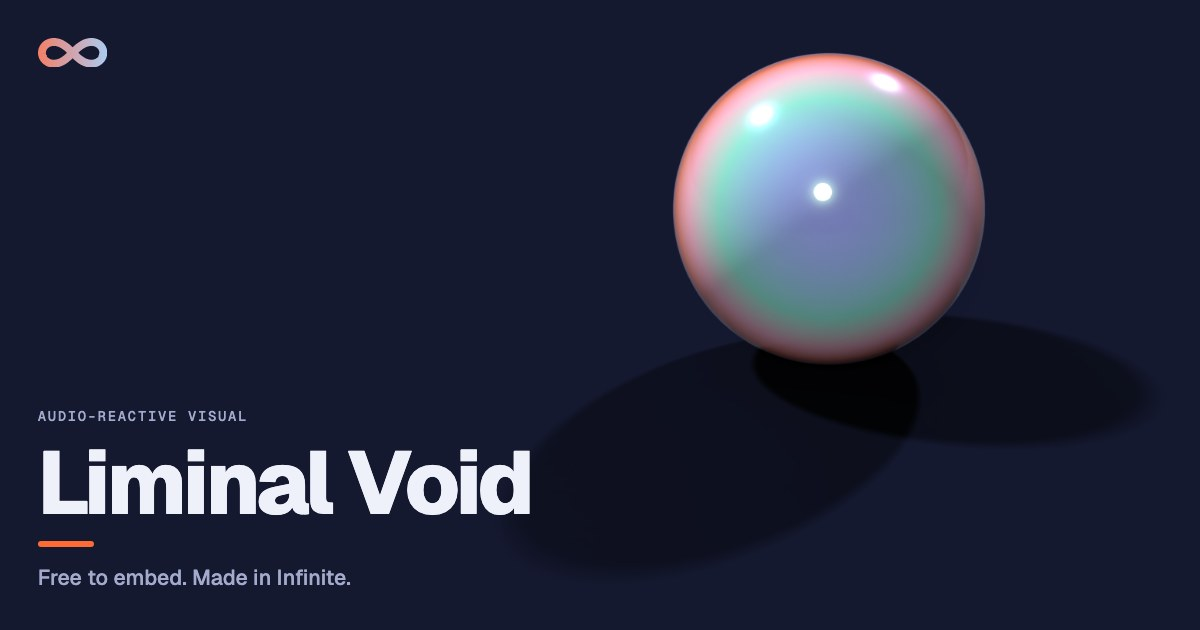
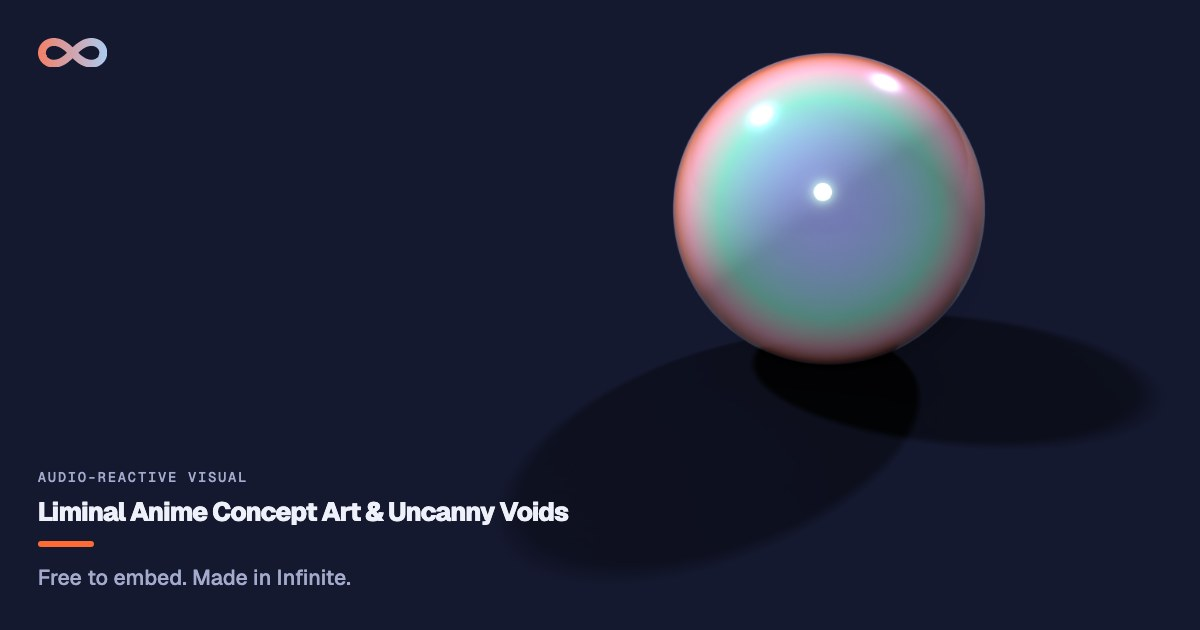
website: update seo and og cards

Changed region(s): [[0.0308, 0.6937, 0.4933, 0.8444], [0.0308, 0.6333, 0.185, 0.6635]]

diff --git a/website/embeds/liminal_void.html b/website/embeds/liminal_void.html
@@ -10,7 +10,7 @@
   <meta property="og:type" content="website">
   <meta property="og:title" content="Liminal Anime Concept Art &amp; Uncanny Voids: audio-reactive visual">
   <meta property="og:description" content="Liminal Anime Concept Art &amp; Uncanny Voids: an interactive audio-reactive WebGL visualizer. Free to embed, made in Infinite by Naman Soni.">
-  <meta property="og:image" content="https://infinitedevices.org/assets/og-image.jpg">
+  <meta property="og:image" content="https://infinitedevices.org/assets/og/embed-liminal_void.jpg">
   <meta name="twitter:card" content="summary_large_image">
   <script type="application/ld+json">{"@context":"https://schema.org","@type":"CreativeWork","name":"Liminal Anime Concept Art &amp; Uncanny Voids","description":"Liminal Anime Concept Art &amp; Uncanny Voids: an interactive audio-reactive WebGL visualizer. Free to embed, made in Infinite by Naman Soni.","url":"https://infinitedevices.org/embeds/","image":"https://infinitedevices.org/assets/og-image.jpg","genre":"Audio-reactive visual","isAccessibleForFree":true,"author":{"@type":"Person","name":"Naman Soni"},"isPartOf":{"@type":"CollectionPage","name":"Infinite embeds","url":"https://infinitedevices.org/embeds/"}}</script>
   <style>

diff --git a/website/embeds/ditherpunk.html b/website/embeds/ditherpunk.html
@@ -10,7 +10,7 @@
   <meta property="og:type" content="website">
   <meta property="og:title" content="1-Bit Ditherpunk &amp; Cyber-Esoteric: audio-reactive visual">
   <meta property="og:description" content="1-Bit Ditherpunk &amp; Cyber-Esoteric: an interactive audio-reactive WebGL visualizer. Free to embed, made in Infinite by Naman Soni.">
-  <meta property="og:image" content="https://infinitedevices.org/assets/og-image.jpg">
+  <meta property="og:image" content="https://infinitedevices.org/assets/og/embed-ditherpunk.jpg">
   <meta name="twitter:card" content="summary_large_image">
   <script type="application/ld+json">{"@context":"https://schema.org","@type":"CreativeWork","name":"1-Bit Ditherpunk &amp; Cyber-Esoteric","description":"1-Bit Ditherpunk &amp; Cyber-Esoteric: an interactive audio-reactive WebGL visualizer. Free to embed, made in Infinite by Naman Soni.","url":"https://infinitedevices.org/embeds/","image":"https://infinitedevices.org/assets/og-image.jpg","genre":"Audio-reactive visual","isAccessibleForFree":true,"author":{"@type":"Person","name":"Naman Soni"},"isPartOf":{"@type":"CollectionPage","name":"Infinite embeds","url":"https://infinitedevices.org/embeds/"}}</script>
   <style>
